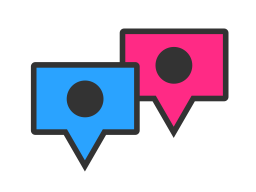
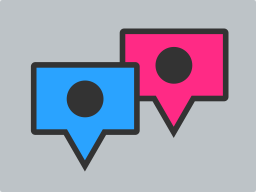
#139 投稿画面のボタンを Retina 対応させた
画像を 32x32 で用意し、img タグの style で 1/2 のサイズを指定している。

diff --git a/style.css b/style.css
@@ -38,27 +38,3 @@
 .imageomap .clear {
     clear:both;
 }
-
-/*
-#imageomap fieldset       { border-style: solid; border-width: 1px; border-color: #aaaaaa; margin:0em 2em 0em 0em; padding:1em; }
-#imageomap legend         { font-weight:bold; font-size:120%; }
-
-.imageomap { width:640px; }
-
-.imageomap .map           { margin-bottom:8px; }
-.imageomap td             { border:none; margin:0; padding:0; vertical-align:top; }
-.imageomap .img           { border:none; padding:5px; float:left; width:100px; }
-.imageomap img.thumbnail  { position: relative; left: -5px; top: -5px; padding: 5px; background: #eeeeee; border: 1px solid #999999; margin:0px; display:block; width:100px; }
-.imageomap .shadow        { background: url("images/img-shadow.gif") right bottom; float:left; }
-.imageomap .info          { border:none; margin-left:120px;}
-.imageomap .title         { font-weight:bold; text-align:left; float:left; }
-.imageomap .datetime      { background:none; font-size:70%; text-align: right; }
-.imageomap .detail        { background:none; float:right; margin-left:10px; }
-.imageomap .comment       { margin-left:120px; }
-.imageomap .clear         { clear:both; }
-.imageomap .tooltip       { display:none; background-color:#444444; padding:8px; font-size:80%; color:#fff; z-index:100; width:20em; }
-.imageomap .tooltip table,
-.imageomap .tooltip td,
-.imageomap .tooltip th    { border:none; background:none transparent; margin:0px; padding:0px; }
-.imageomap .tooltip th    { text-align:right; padding-right:4px; }
-*/

diff --git a/wp-imageomap.php b/wp-imageomap.php
@@ -175,7 +175,7 @@ class WpImaGeoMap
         $id     = (int)( 0 == $post_ID ? $temp_ID : $post_ID );
         $iframe = apply_filters( "media_upload_imageomap_iframe_src", "media-upload.php?post_id={$id}&amp;type=imageomap&amp;tab=imageomap" );
         $title  = "WP-ImaGeoMap";
-        $link   = "<a href=\"{$iframe}&amp;TB_iframe=true&amp;keepThis=true&amp;height=500&amp;width=640\" class=\"thickbox\" title=\"{$title}\"><img src=\"{$this->pluginDirUrl}images/button.png\" alt=\"{$title}\" /></a>\n";
+        $link   = "<a href=\"{$iframe}&amp;TB_iframe=true&amp;keepThis=true&amp;height=500&amp;width=640\" class=\"thickbox\" title=\"{$title}\"><img src=\"{$this->pluginDirUrl}images/button.png\" alt=\"{$title}\" style=\"width:16px;\" /></a>\n";
 
         echo $link;
     }
